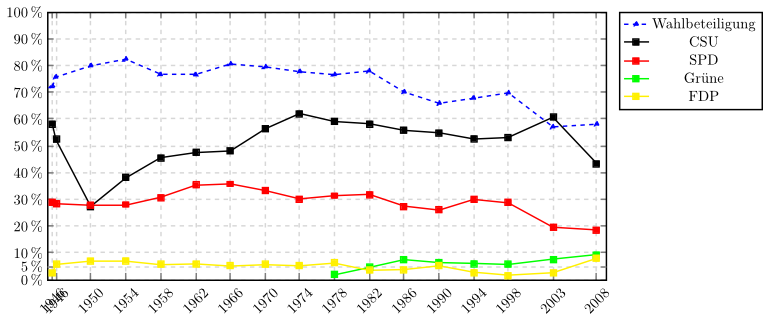
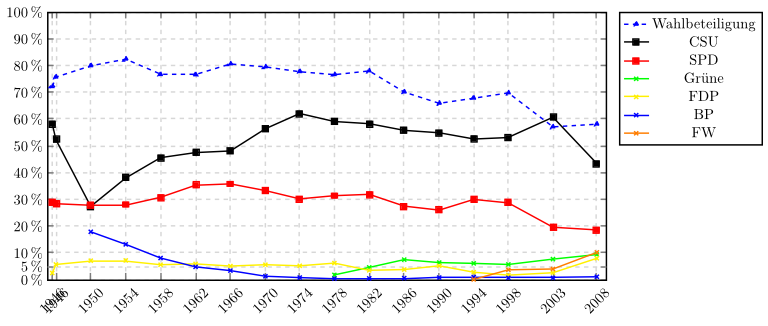
misc

diff --git a/source-code/Pseudocode/Cholesky-Zerlegung/Animation/Animation.tex b/source-code/Pseudocode/Cholesky-Zerlegung/Animation/Animation.tex
@@ -1,0 +1,279 @@
+\documentclass[aspectratio=169,hyperref={pdfpagelabels=false}]{beamer}
+\usepackage{lmodern}
+ 
+\usepackage[utf8]{inputenc} % this is needed for german umlauts
+\usepackage[ngerman]{babel} % this is needed for german umlauts
+\usepackage[T1]{fontenc}    % this is needed for correct output of umlauts in pdf
+
+\usepackage{braket} % needed for \Set
+\usepackage{algorithm,algpseudocode}
+
+\usepackage{verbatim}
+\usepackage{tikz}
+\usetikzlibrary{arrows,shapes}
+ 
+% Define some styles for graphs
+\tikzstyle{vertex}=[circle,fill=black!25,minimum size=20pt,inner sep=0pt]
+\tikzstyle{selected vertex} = [vertex, fill=red!24]
+\tikzstyle{blue vertex} = [vertex, fill=blue!24]
+\tikzstyle{edge} = [draw,thick,-]
+\tikzstyle{weight} = [font=\small]
+\tikzstyle{selected edge} = [draw,line width=5pt,-,red!50]
+\tikzstyle{ignored edge} = [draw,line width=5pt,-,black!20]
+ 
+% see http://deic.uab.es/~iblanes/beamer_gallery/index_by_theme.html
+%\usetheme{Frankfurt}
+\usefonttheme{professionalfonts}
+ 
+% disables bottom navigation bar
+\beamertemplatenavigationsymbolsempty
+ 
+% http://tex.stackexchange.com/questions/23727/converting-beamer-slides-to-animated-images
+\setbeamertemplate{navigation symbols}{}%
+
+\newcommand{\alertline}{%
+ \usebeamercolor[fg]{normal text}%
+ \only{\usebeamercolor[fg]{alerted text}}}
+
+
+\begin{document}
+\pgfdeclarelayer{background}
+\pgfsetlayers{background,main}
+\newcommand\hlight[1]{\tikz[overlay, remember picture,baseline=-\the\dimexpr\fontdimen22\textfont2\relax]\node[rectangle,fill=blue!50,rounded corners,fill opacity = 0.2,draw,thick,text opacity =1] {$#1$};}
+\newcommand\tocalculate[1]{\tikz[overlay, remember picture,baseline=-\the\dimexpr\fontdimen22\textfont2\relax]\node[rectangle,fill=green!50,rounded corners,fill opacity = 0.2,draw,thick,text opacity =1] {$#1$};}
+ 
+\begin{frame}
+    \begin{minipage}[b]{0.30\linewidth}
+    \centering
+    \begin{align*}
+        A &= \begin{pmatrix}
+            1 &  2 & 3\\
+            2 &  8 & 14\\
+            3 & 14 & 34
+        \end{pmatrix}\\
+       \alertline<1> L &= \alertline<1>\begin{pmatrix}
+            0 & 0 & 0\\
+            0 & 0 & 0\\
+            0 & 0 & 0
+        \end{pmatrix}\\
+        tmp &= 0
+    \end{align*}
+    \end{minipage}
+    \hspace{0.5cm}
+    \begin{minipage}[b]{0.60\linewidth}
+    \centering
+    \begin{algorithm}[H]
+        \begin{algorithmic}
+            \Function{Cholesky}{$A \in \mathbb{R}^{n \times n}$}
+                \alertline<1>\State $L = \Set{0} \in \mathbb{R}^{n \times n}$ \Comment{Initialisiere $L$}\\
+
+                \alertline<2>\alertline<4>\For{($k=1$; $\;k \leq n$; $\;k$++)}
+                    \alertline<3>\State $L_{k,k} = \sqrt{A_{k,k} - \sum_{i=1}^{k-1} L_{k,i}^2}$
+                    \For{($i=k+1$; $\;i \leq n$; $\;i$++)}
+                        \State $L_{i,k} = \frac{A_{i,k} - \sum_{j=1}^{k-1} L_{i,j} \cdot L_{k,j}}{L_{k,k}}$
+                    \EndFor
+                \EndFor
+                \alertline<5>\State \Return $L$
+            \EndFunction
+        \end{algorithmic}
+    \caption{Cholesky-Zerlegung}
+    \label{alg:seq1}
+    \end{algorithm}
+    \end{minipage}
+\end{frame}
+\begin{frame}
+    \begin{align*}
+        A &= \begin{pmatrix}
+            \hlight{1} &  2 & 3\\
+            2 &  8 & 14\\
+            3 & 14 & 34
+        \end{pmatrix}\\
+        L &= \begin{pmatrix}
+            \tocalculate{0} & 0 & 0\\
+            0 & 0 & 0\\
+            0 & 0 & 0
+        \end{pmatrix}\\
+        tmp &= 0
+    \end{align*}
+\end{frame}
+\begin{frame}
+    \begin{align*}
+        A &= \begin{pmatrix}
+            1 &  2 & 3\\
+            2 &  8 & 14\\
+            3 & 14 & 34
+        \end{pmatrix}\\
+        L &= \begin{pmatrix}
+            \tocalculate{1} & 0 & 0\\
+            0 & 0 & 0\\
+            0 & 0 & 0
+        \end{pmatrix}\\
+        tmp &= 0
+    \end{align*}
+\end{frame}
+%%%%%%%%%%%%%%%%%%%%%%%%%%%%%%%%%%%%%%%%%%%%%%%%%%%%%%%%%%%%%%%%
+% Calculate L_2,1
+\begin{frame}
+    \begin{align*}
+        A &= \begin{pmatrix}
+            1 &  2 & 3\\
+            \hlight{2} &  8 & 14\\
+            3 & 14 & 34
+        \end{pmatrix}\\
+        L &= \begin{pmatrix}
+            1 & 0 & 0\\
+            \tocalculate{0} & 0 & 0\\
+            0 & 0 & 0
+        \end{pmatrix}\\
+        tmp &= 0
+    \end{align*}
+\end{frame}
+
+\begin{frame}
+    \begin{align*}
+        A &= \begin{pmatrix}
+            1 &  2 & 3\\
+            2 &  8 & 14\\
+            3 & 14 & 34
+        \end{pmatrix}\\
+        L &= \begin{pmatrix}
+            \hlight{1} & 0 & 0\\
+            \tocalculate{2} & 0 & 0\\
+            0 & 0 & 0
+        \end{pmatrix}\\
+        tmp &= 0
+    \end{align*}
+\end{frame}
+
+\begin{frame}
+    \begin{align*}
+        A &= \begin{pmatrix}
+            1 &  2 & 3\\
+            2 &  8 & 14\\
+            3 & 14 & 34
+        \end{pmatrix}\\
+        L &= \begin{pmatrix}
+            1 & 0 & 0\\
+            \tocalculate{2} & 0 & 0\\
+            0 & 0 & 0
+        \end{pmatrix}\\
+        tmp &= 0
+    \end{align*}
+\end{frame}
+%%%%%%%%%%%%%%%%%%%%%%%%%%%%%%%%%%%%%%%%%%%%%%%%%%%%%%%%%%%%%%%%
+% Calculate L_3,1
+\begin{frame}
+    \begin{align*}
+        A &= \begin{pmatrix}
+            1 &  2 & 3\\
+            2 &  8 & 14\\
+            \hlight{3} & 14 & 34
+        \end{pmatrix}\\
+        L &= \begin{pmatrix}
+            1 & 0 & 0\\
+            2 & 0 & 0\\
+            \tocalculate{0} & 0 & 0
+        \end{pmatrix}\\
+        tmp &= 0
+    \end{align*}
+\end{frame}
+
+\begin{frame}
+    \begin{align*}
+        A &= \begin{pmatrix}
+            \hlight{1} &  2 & 3\\
+            2 &  8 & 14\\
+            3 & 14 & 34
+        \end{pmatrix}\\
+        L &= \begin{pmatrix}
+            1 & 0 & 0\\
+            2 & 0 & 0\\
+            \tocalculate{3} & 0 & 0
+        \end{pmatrix}\\
+        tmp &= 0
+    \end{align*}
+\end{frame}
+
+%%%%%%%%%%%%%%%%%%%%%%%%%%%%%%%%%%%%%%%%%%%%%%%%%%%%%%%%%%%%%%%%
+% Calculate L_2,2
+\begin{frame}
+    \begin{align*}
+        A &= \begin{pmatrix}
+            1 &  2 & 3\\
+            2 &  \hlight{8} & 14\\
+            3 & 14 & 34
+        \end{pmatrix}\\
+        L &= \begin{pmatrix}
+            1 & 0 & 0\\
+            2 & \tocalculate{0} & 0\\
+            3 & 0 & 0
+        \end{pmatrix}\\
+        tmp &= 0
+    \end{align*}
+\end{frame}
+
+\begin{frame}
+    \begin{align*}
+        A &= \begin{pmatrix}
+            1 &  2 & 3\\
+            2 &  8 & 14\\
+            3 & 14 & 34
+        \end{pmatrix}\\
+        L &= \begin{pmatrix}
+            1 & 0 & 0\\
+            \hlight{2} & \tocalculate{8} & 0\\
+            3 & 0 & 0
+        \end{pmatrix}\\
+        tmp &= 0
+    \end{align*}
+\end{frame}
+
+\begin{frame}
+    \begin{align*}
+        A &= \begin{pmatrix}
+            1 &  2 & 3\\
+            2 &  8 & 14\\
+            3 & 14 & 34
+        \end{pmatrix}\\
+        L &= \begin{pmatrix}
+            1 & 0 & 0\\
+            2 & \tocalculate{8} & 0\\
+            3 & 0 & 0
+        \end{pmatrix}\\
+        tmp &= \hlight{4}
+    \end{align*}
+\end{frame}
+
+\begin{frame}
+    \begin{align*}
+        A &= \begin{pmatrix}
+            1 &  2 & 3\\
+            2 &  8 & 14\\
+            3 & 14 & 34
+        \end{pmatrix}\\
+        L &= \begin{pmatrix}
+            1 & 0 & 0\\
+            2 & \tocalculate{4} & 0\\
+            3 & 0 & 0
+        \end{pmatrix}\\
+        tmp &= 0
+    \end{align*}
+\end{frame}
+
+
+\begin{frame}
+    \begin{align*}
+        A &= \begin{pmatrix}
+            1 &  2 & 3\\
+            2 &  8 & 14\\
+            3 & 14 & 34
+        \end{pmatrix}\\
+        L &= \begin{pmatrix}
+            1 & 0 & 0\\
+            2 & \tocalculate{2} & 0\\
+            3 & 0 & 0
+        \end{pmatrix}\\
+        tmp &= 0
+    \end{align*}
+\end{frame}
+\end{document}

diff --git a/tikz/landtagswahlen-in-bayern/landtagswahlen-in-bayern.tex b/tikz/landtagswahlen-in-bayern/landtagswahlen-in-bayern.tex
@@ -30,9 +30,11 @@
           \addplot[blue, dashed, mark=triangle*] table [x=Wahltag, y=Wahlbeteiligung, col sep=comma] {landtagswahlen-in-bayern.csv};
           \addplot[black,mark=square*] table [x=Wahltag, y=CSU, col sep=comma] {landtagswahlen-in-bayern.csv};
           \addplot[red,mark=square*] table [x=Wahltag, y=SPD, col sep=comma] {landtagswahlen-in-bayern.csv};
-          \addplot[green,mark=square*] table [x=Wahltag, y=GRÜNE, col sep=comma] {landtagswahlen-in-bayern.csv};
-          \addplot[yellow,mark=square*] table [x=Wahltag, y=FDP, col sep=comma] {landtagswahlen-in-bayern.csv};
-          \legend{Wahlbeteiligung,CSU,SPD,Grüne,FDP}
+          \addplot[green,mark=x] table [x=Wahltag, y=GRÜNE, col sep=comma] {landtagswahlen-in-bayern.csv};
+          \addplot[yellow,mark=x] table [x=Wahltag, y=FDP, col sep=comma] {landtagswahlen-in-bayern.csv};
+          \addplot[blue,mark=x] table [x=Wahltag, y=BP, col sep=comma] {landtagswahlen-in-bayern.csv};
+          \addplot[orange,mark=x] table [x=Wahltag, y=FW, col sep=comma] {landtagswahlen-in-bayern.csv};
+          \legend{Wahlbeteiligung,CSU,SPD,Grüne,FDP,BP,FW}
     \end{axis}
 \end{tikzpicture}
 \end{document}

diff --git a/source-code/Pseudocode/Cholesky-Zerlegung/CholeskyZerlegung.py b/source-code/Pseudocode/Cholesky-Zerlegung/CholeskyZerlegung.py
@@ -1,0 +1,18 @@
+def getL(A):
+    n = len(A)
+    L = [[0 for i in range(n)] for j in range(n)]
+    print(L)
+    print("")
+ 
+    for k in range(n):
+        L[k][k] = (A[k][k] - sum([L[k][i]**2 for i in range(k)]))**0.5
+        for i in range(k+1, n):
+            L[i][k] = (A[i][k] 
+                        - sum([L[i][j]*L[k][j] for j in range(k)])) \
+                      / L[k][k]
+            print("L_%i%i = A%i%i - sum(L_...)/L_%i%i) = %i" % (i, k, i, k, k, k, L[i][k]))
+    return L
+
+A = [[1,2,3],[2,8,14],[3,14,34]]
+
+print getL(A)
